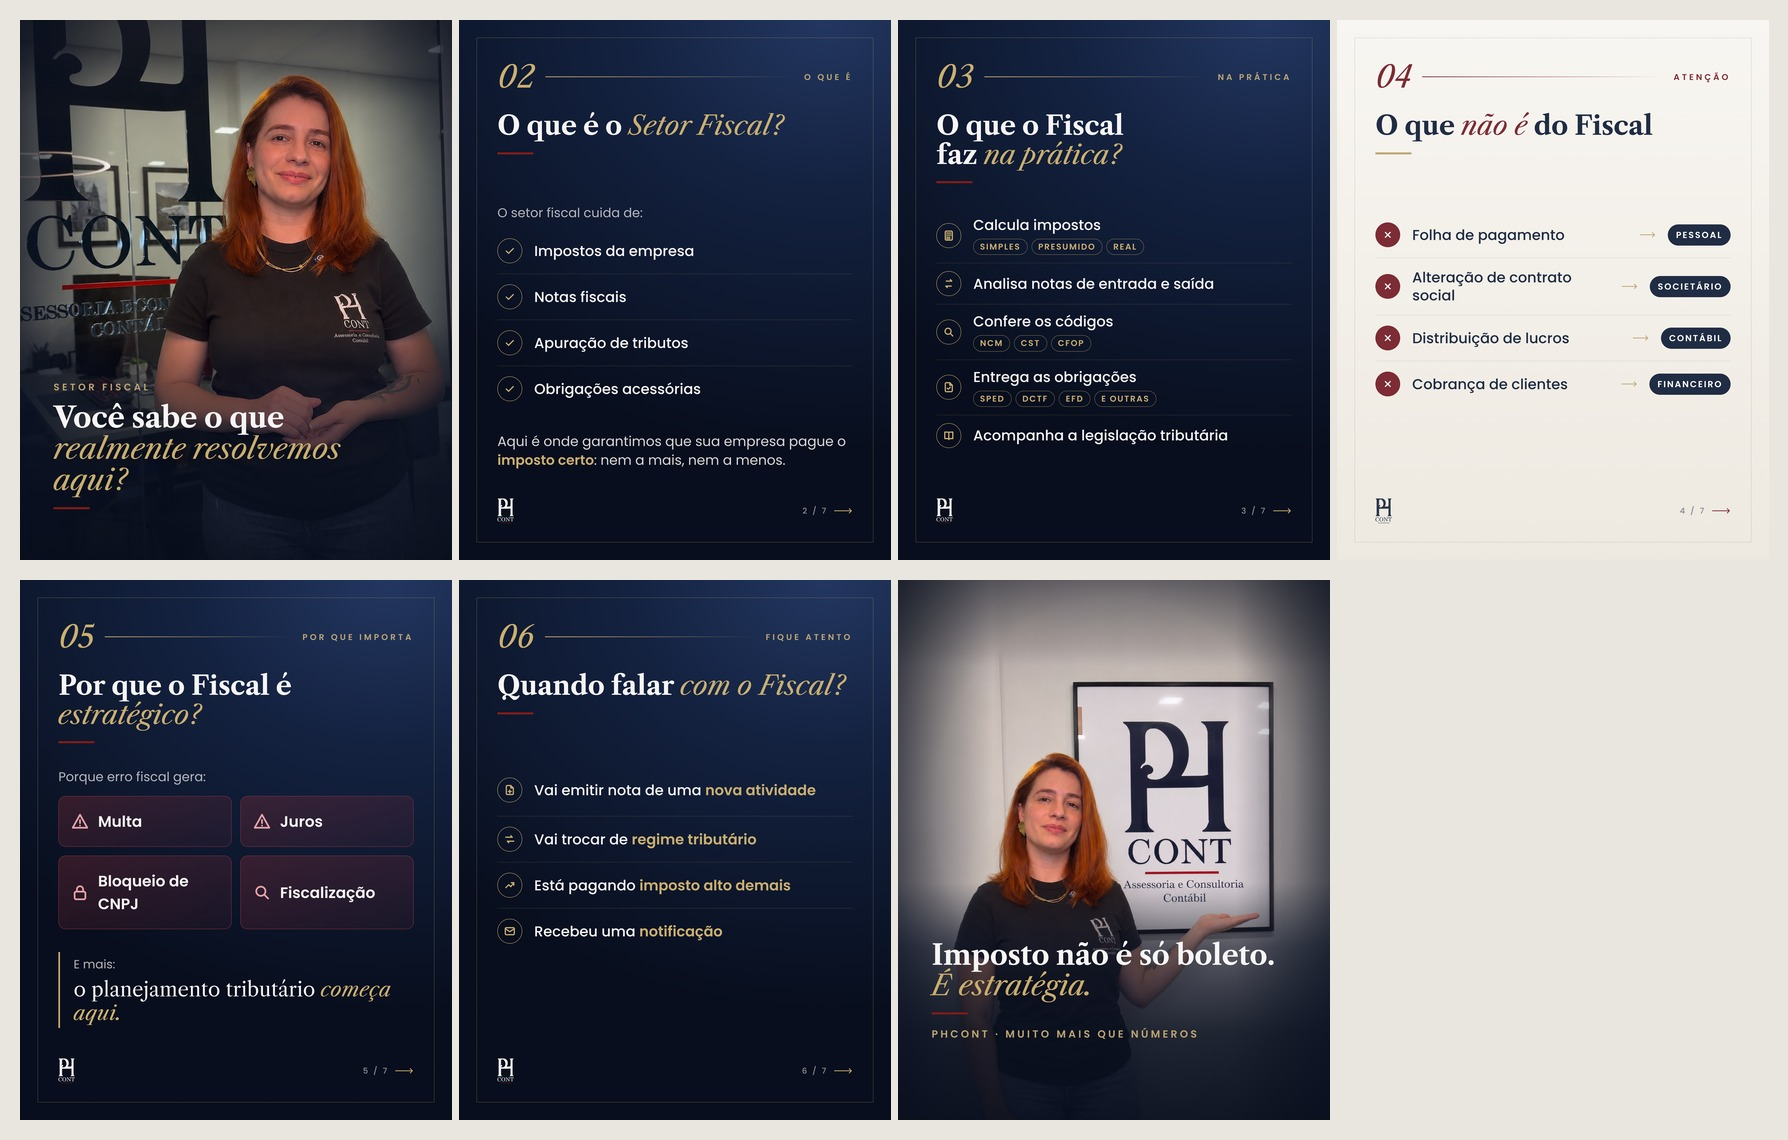
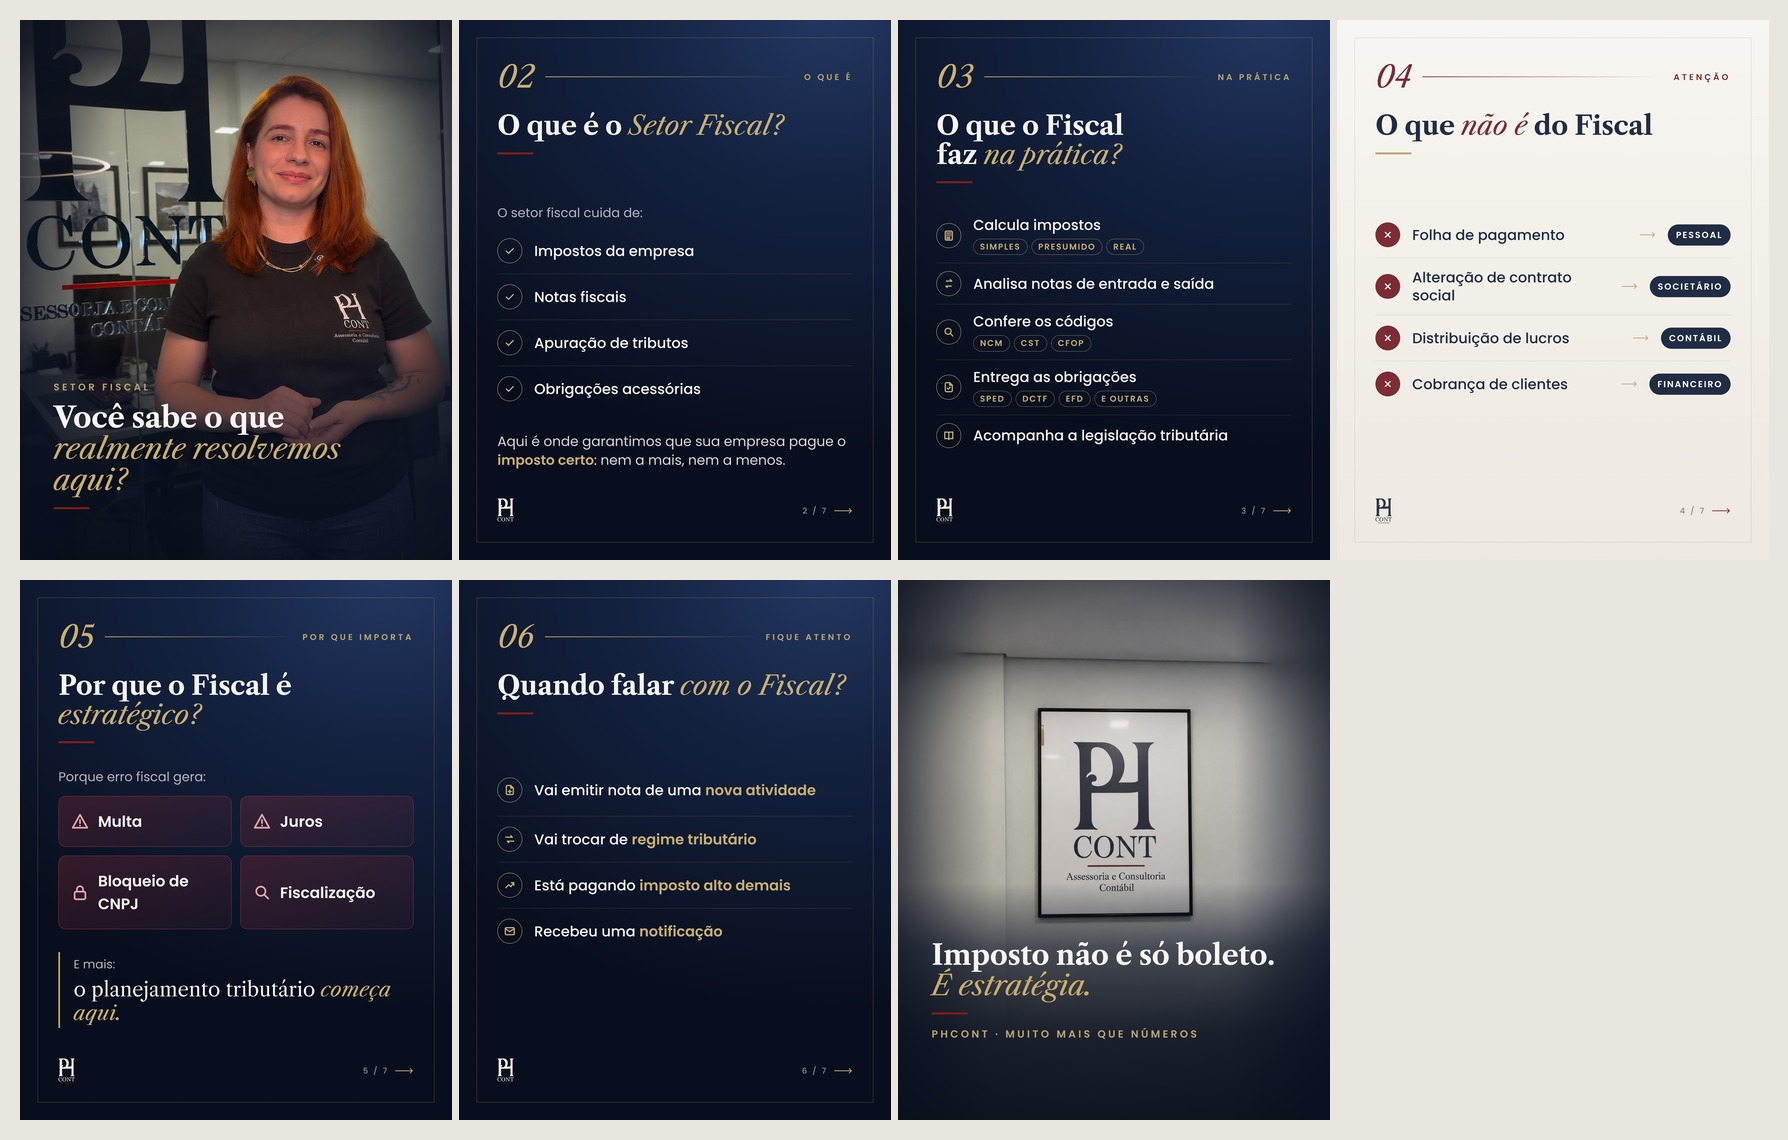
PHcont carrossel: último slide com a foto do quadro PH
Claude-Session: https://claude.ai/code/session_012bVqEb5M2bw1tnz2qQiCDo

Changed region(s): [[0.4922, 0.4912, 0.7383, 0.8904]]

diff --git a/phcont/carrossel/setor_fiscal/carrossel.html b/phcont/carrossel/setor_fiscal/carrossel.html
@@ -153,7 +153,7 @@ html,body{width:1080px;height:1350px;overflow:hidden;background:#0b1529}
 
 <!-- 7: ENCERRAMENTO -->
 <section class="s" id="s7">
-  <div style="position:absolute;inset:0;background:url(foto2_afastada.jpg) center bottom/cover"></div>
+  <div style="position:absolute;inset:0;background:url(foto3_afastada.jpg) center top/cover"></div>
   <div style="position:absolute;inset:0;background:radial-gradient(ellipse 75% 70% at 50% 42%,rgba(8,14,29,0) 55%,rgba(8,14,29,.55) 100%)"></div>
   <div style="position:absolute;inset:0;background:linear-gradient(90deg,rgba(8,14,29,.62) 0%,rgba(8,14,29,0) 22%,rgba(8,14,29,0) 78%,rgba(8,14,29,.62) 100%),linear-gradient(180deg,rgba(8,14,29,.45) 0%,rgba(8,14,29,0) 16%)"></div>
   <div style="position:absolute;inset:0;background:linear-gradient(180deg,rgba(9,16,32,0) 0%,rgba(9,16,32,0) 56%,rgba(11,19,38,.6) 68%,rgba(9,16,32,.86) 84%,rgba(8,14,29,.92) 100%)"></div>

diff --git a/phcont/carrossel/setor_fiscal/afastar.py b/phcont/carrossel/setor_fiscal/afastar.py
@@ -1,12 +1,13 @@
 """Afasta a foto (zoom out) aumentando a parede lisa em volta: replica a borda, suaviza só a parte nova e funde."""
 import sys, cv2, numpy as np
 src, dst, frac = sys.argv[1], sys.argv[2], float(sys.argv[3])   # frac = largura da foto no quadro final
+parte_cima = float(sys.argv[4]) if len(sys.argv) > 4 else 1.0  # quanto da parede nova vai em cima (1 = tudo em cima)
 im = cv2.imread(src); H, W = im.shape[:2]
 CW = int(round(W / frac)); CH = int(round(CW * 1350 / 1080))
-lado = (CW - W) // 2; topo = CH - H
-ext = cv2.copyMakeBorder(im, topo, 0, lado, CW - W - lado, cv2.BORDER_REPLICATE)
+lado = (CW - W) // 2; topo = int((CH - H) * parte_cima); baixo = CH - H - topo
+ext = cv2.copyMakeBorder(im, topo, baixo, lado, CW - W - lado, cv2.BORDER_REPLICATE)
 suave = cv2.GaussianBlur(ext, (0, 0), 25 * W / 1086)
-m = np.zeros((CH, CW), np.float32); m[topo:, lado:lado + W] = 1
+m = np.zeros((CH, CW), np.float32); m[topo:topo + H, lado:lado + W] = 1
 m = cv2.GaussianBlur(cv2.erode(m, np.ones((int(61 * W / 1086),) * 2)), (0, 0), 18 * W / 1086)[..., None]
 out = (ext * m + suave * (1 - m)).astype(np.uint8)
 # leve granulado na parte nova para não ficar lisa demais
